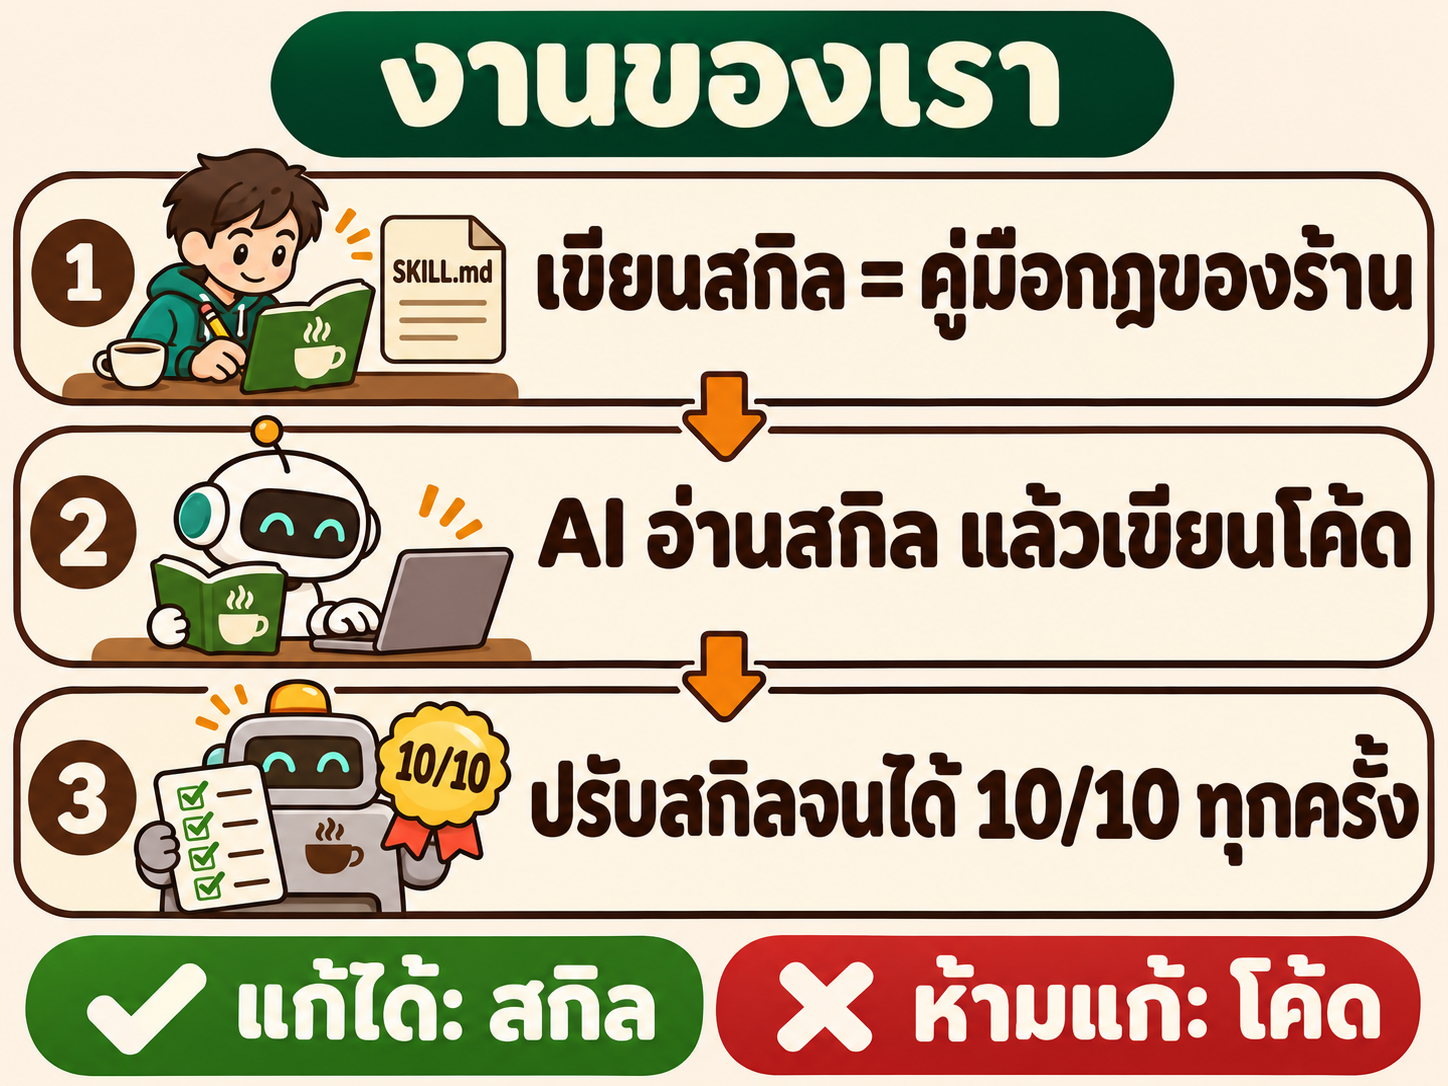
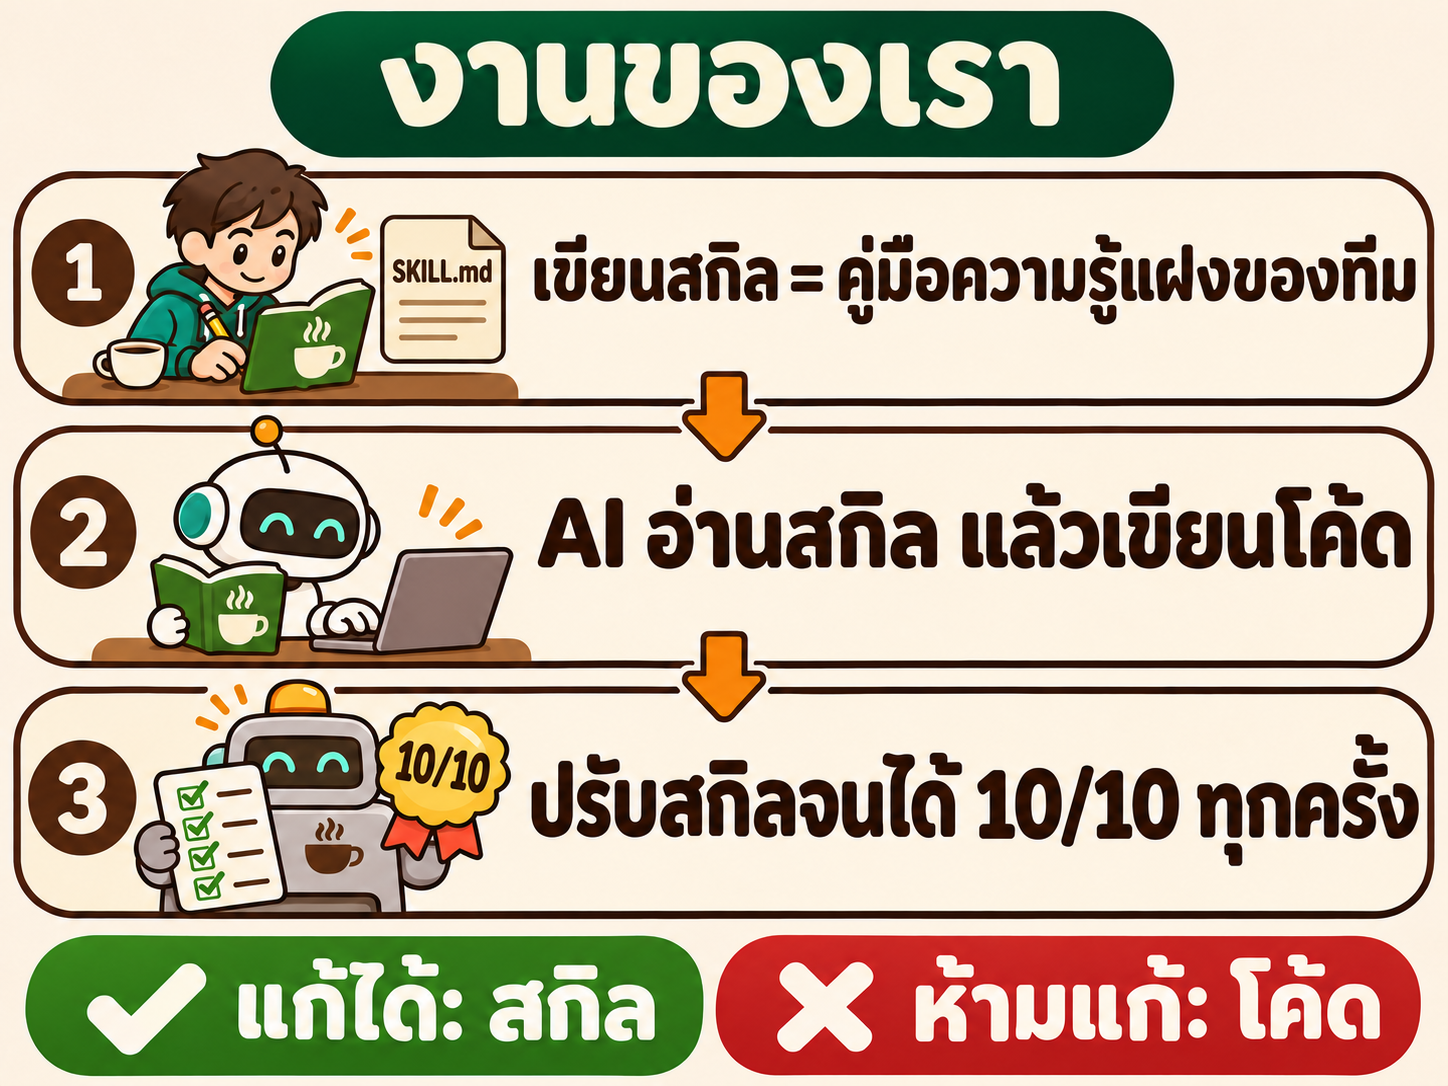
Skill Optimizer: g20 says "manual of team tacit knowledge"

diff --git a/03_week03/05_Skill_Optimizer/README.md b/03_week03/05_Skill_Optimizer/README.md
@@ -14,7 +14,7 @@
 
 <p>
 <img src="img/g19-problem.png" width="49%" alt="ปัญหา: ร้านให้ AI เขียนโค้ดคิดเงิน 6 งาน โค้ดรันได้แต่ผิดข้อกำหนดของร้าน เพราะความรู้แฝงของทีมไม่อยู่ในโจทย์">
-<img src="img/g20-our-job.png" width="49%" alt="งานของเรา: เขียนสกิล AI อ่านสกิลแล้วเขียนโค้ด ปรับสกิลจนได้ 10/10 ทุกครั้ง แก้ได้แค่สกิล ห้ามแก้โค้ด">
+<img src="img/g20-our-job.png" width="49%" alt="งานของเรา: เขียนสกิลเป็นคู่มือความรู้แฝงของทีม AI อ่านสกิลแล้วเขียนโค้ด ปรับสกิลจนได้ 10/10 ทุกครั้ง แก้ได้แค่สกิล ห้ามแก้โค้ด">
 </p>
 
 **งานคิดเงิน 6 งาน** · AI เขียนงานละ 1 ฟังก์ชัน ในไฟล์ `solve.py`
